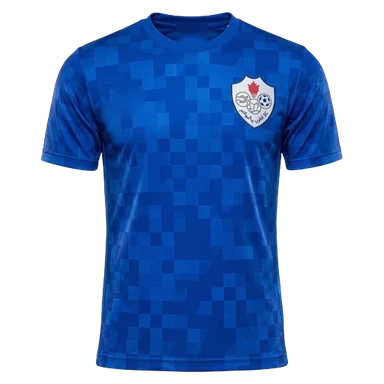
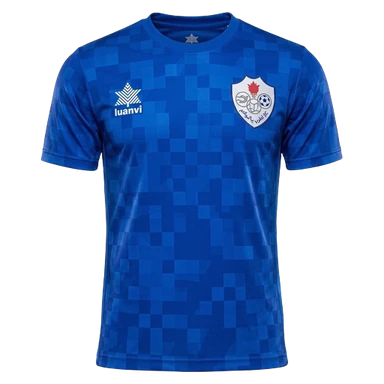
الشباب: إرجاع شعار luanvi على يسار الطقم الأساسي (مثل العربي) في الفانتسي ونبذة النادي — KIT_V 7، sw -359

Changed region(s): [[0.25, 0.2188, 0.375, 0.3125], [0.4688, 0.0625, 0.5312, 0.125]]

diff --git a/index.html b/index.html
@@ -11828,7 +11828,7 @@ function clubAboutHTML(c, r, played){
     <div class="wm" style="background-image:url('${crestSrcOf(c)}')"></div>
     <div class="cabout-hero"><img class="st-img" src="${stSrc}" alt="" style="${I.stPos?`object-position:${I.stPos}`:""}" decoding="async" onload="this.classList.add('on')" onerror="this.onerror=null;this.src='assets/hero/stadium.jpg'">
       ${I.st?`<span class="st-cap">${esc(I.st)}</span>`:""}
-      ${I.kit?`<div class="cabout-kits">${[[I.kit,"الطقم الأساسي"],[`${I.kit}_gk`,"طقم الحارس"]].filter(x=>x[0]).map(([f,l])=>`<figure class="ckit"><img src="fantasy/assets/kits/${f}.webp?v=6" alt="${l}" loading="lazy" decoding="async" onerror="this.parentElement.remove()"><figcaption>${l}</figcaption></figure>`).join("")}</div>`:""}
+      ${I.kit?`<div class="cabout-kits">${[[I.kit,"الطقم الأساسي"],[`${I.kit}_gk`,"طقم الحارس"]].filter(x=>x[0]).map(([f,l])=>`<figure class="ckit"><img src="fantasy/assets/kits/${f}.webp?v=7" alt="${l}" loading="lazy" decoding="async" onerror="this.parentElement.remove()"><figcaption>${l}</figcaption></figure>`).join("")}</div>`:""}
     </div>
     <div class="cabout-head">
       ${crest(c,true)}

diff --git a/fantasy/js/kits.js b/fantasy/js/kits.js
@@ -3,7 +3,7 @@
 'use strict';
 
 /* الأطقم الحقيقية 2026/27 (منصور 2026-09-15): صور منتج شفافة مبنية من صور التصوير الرسمي، بلا رقم ولا اسم. */
-const KIT_V = 6;   // 6: طقم العربي الجديد 2026/27 (بدون راعٍ) — منصور 2026-10-08
+const KIT_V = 7;   // 7: طقم الشباب بشعار luanvi على اليسار مثل العربي (منصور 2026-10-08)
 const KIT_IMG = Object.fromEntries(
   ['KUW','QAD','ARB','KAZ','SAL','NSR','JAH','SAH','FAH','TDM','SHB','SLB'].map(c =>
     [c, {out:`${c}.webp?v=${KIT_V}`, gk:`${c}_gk.webp?v=${KIT_V}`}])

diff --git a/fantasy/index.html b/fantasy/index.html
@@ -51,7 +51,7 @@
   <script src="js/coach.js?v=286"></script>
   <script src="js/ui.js?v=286"></script>
   <script src="js/photos.js?v=287"></script>
-  <script src="js/kits.js?v=285"></script>
+  <script src="js/kits.js?v=286"></script>
   <script src="js/kits-number.js?v=285"></script>
   <script src="js/moderation.js?v=285"></script>
   <script src="js/views.js?v=299"></script>

diff --git a/sw.js b/sw.js
@@ -9,7 +9,7 @@
 
    عند كل نشر: ارفع رقم VER فتُبنى ذاكرة جديدة وتُحذف القديمة.
    ========================================================= */
-const VER   = 'mf-2026-10-08-358-rawahi';
+const VER   = 'mf-2026-10-08-359-shbkit';
 const SHELL = 'shell-' + VER;
 const RUN   = 'run-'   + VER;
 
